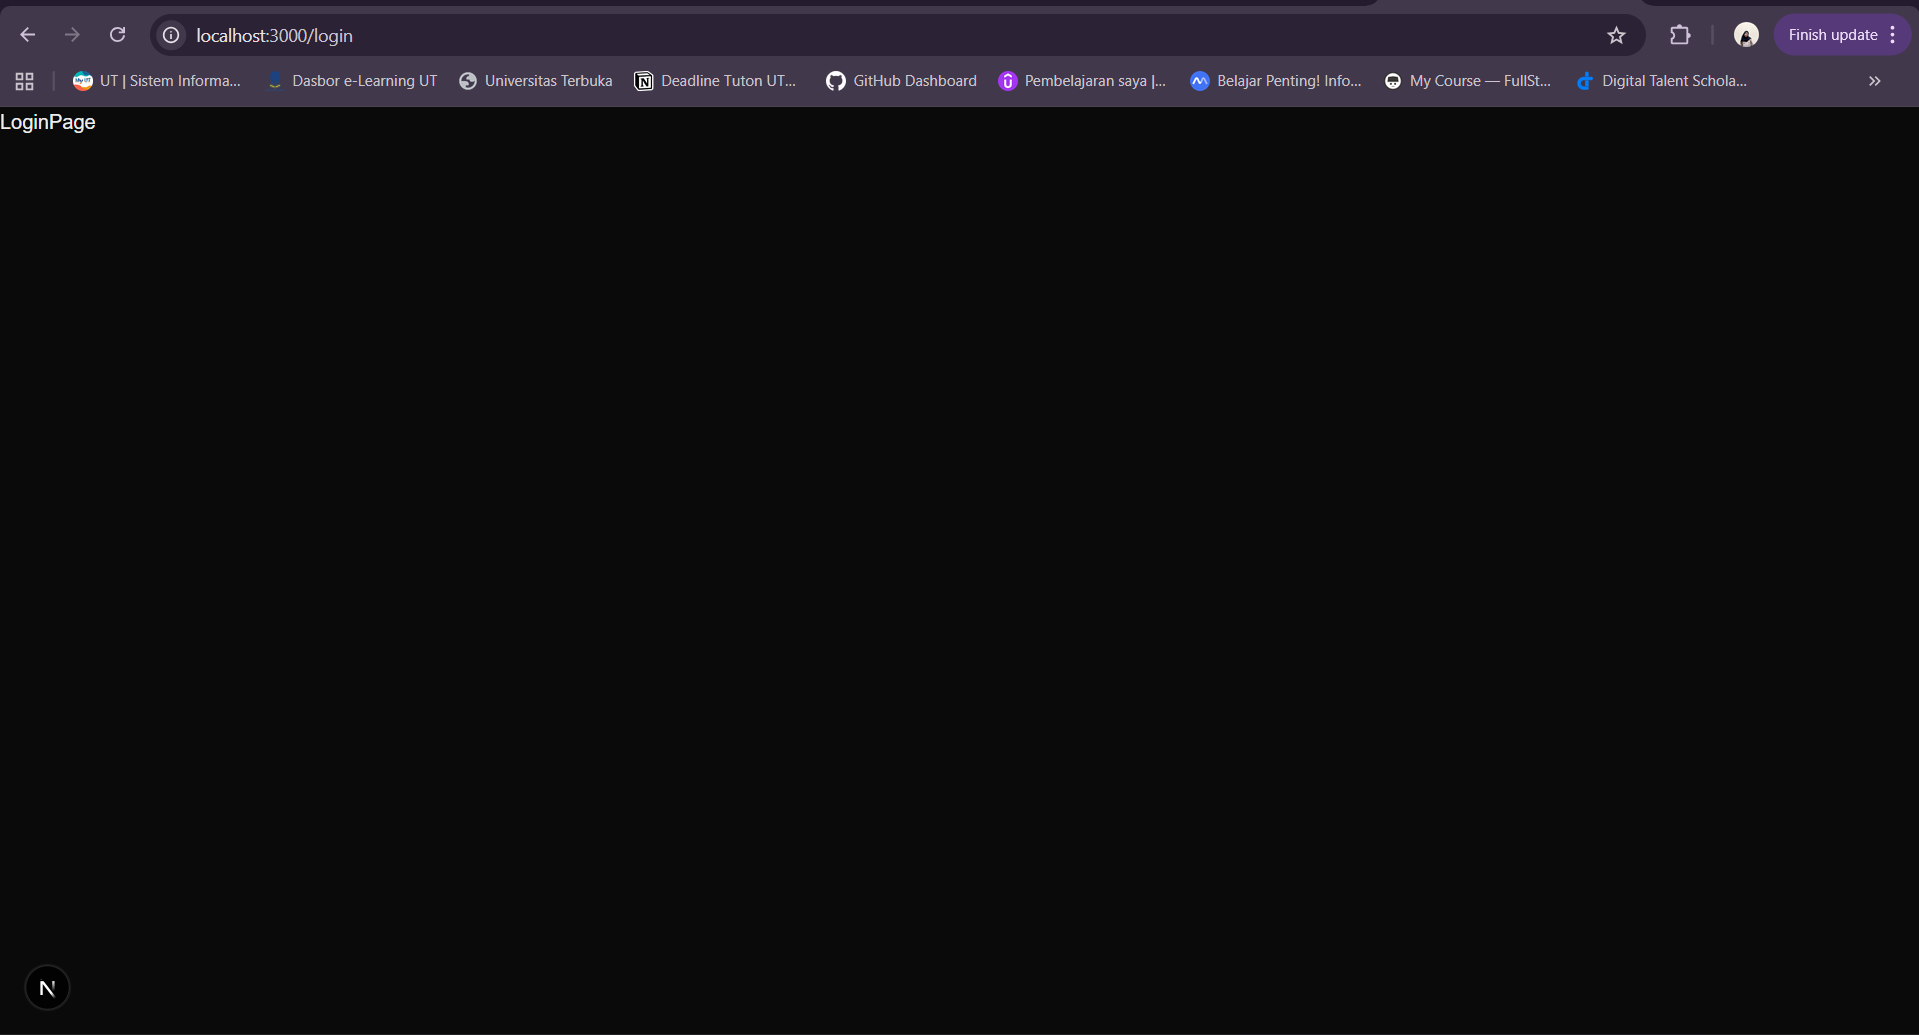
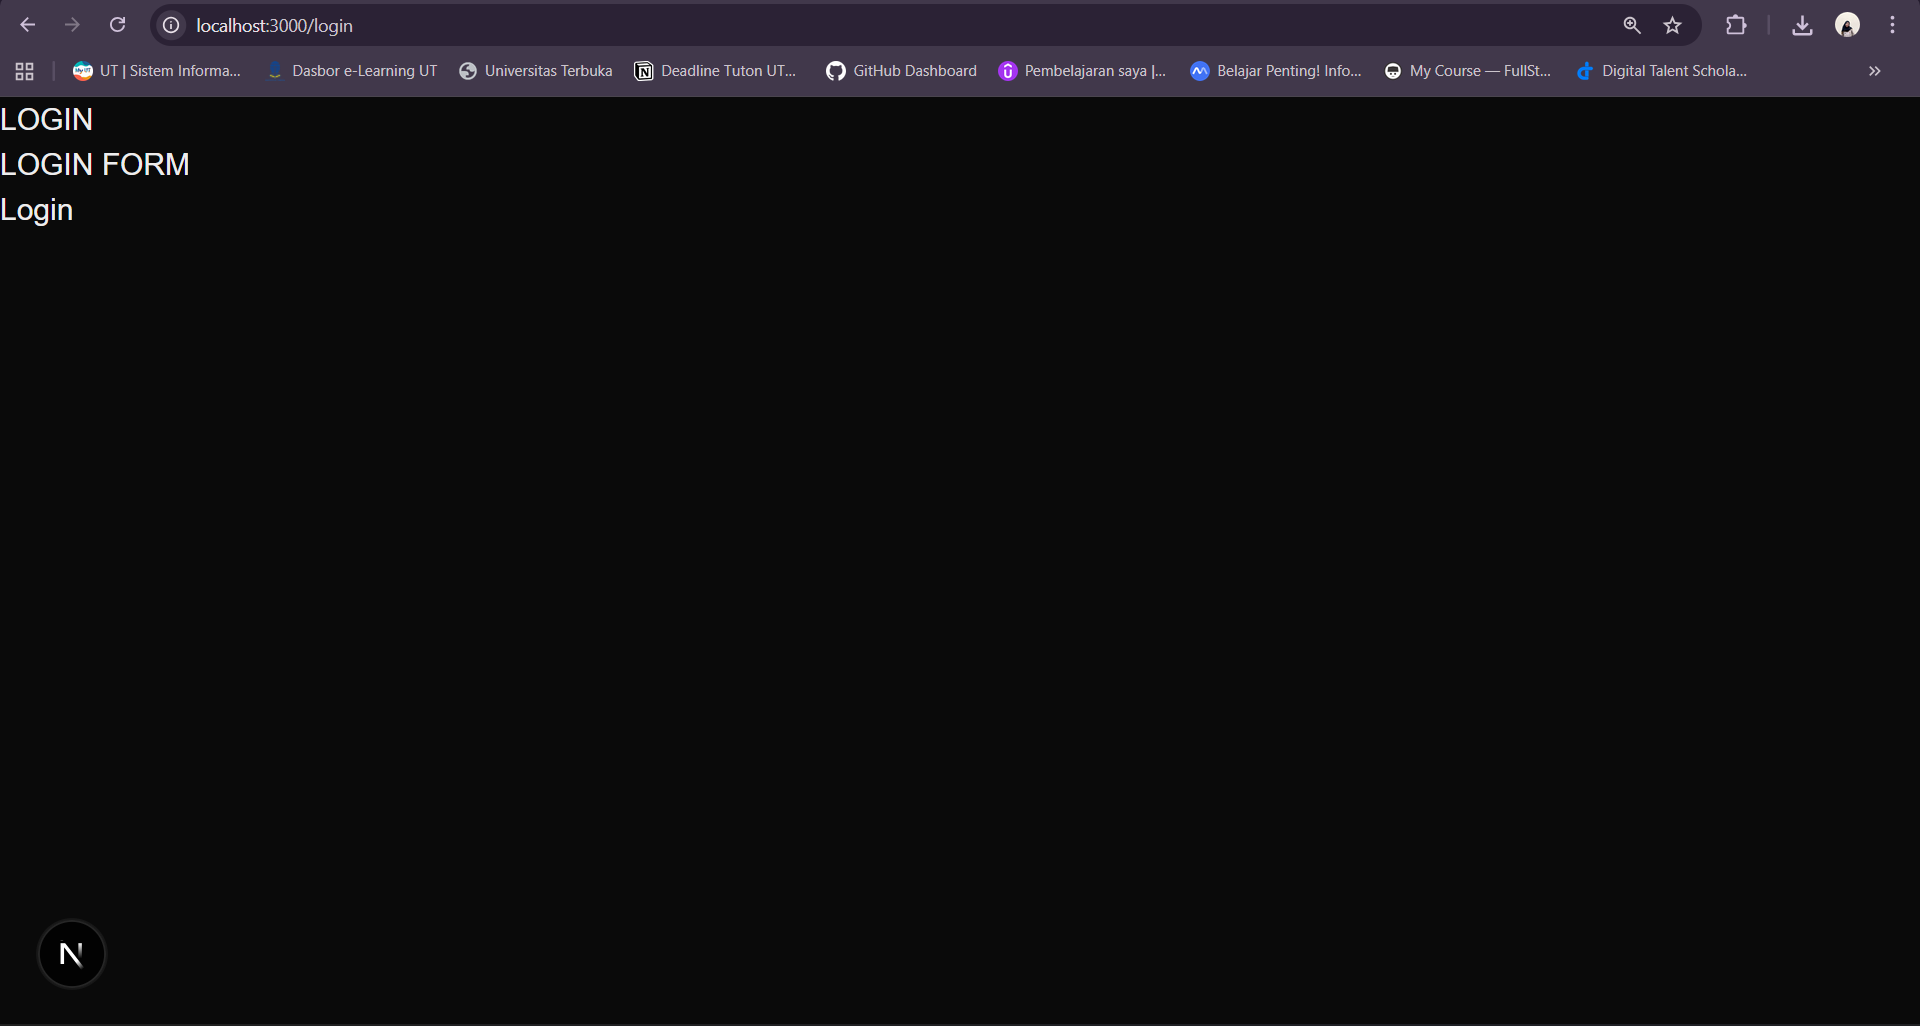
docs: update documentation with new images
- add home-page.png
- update login-page.png
- update README.md to include new screenshots

Changed region(s): [[0.0, 0.0, 1.0, 0.2183], [0.3689, 0.9981, 1.0, 1.0], [0.0307, 0.9045, 0.0615, 0.9357]]

diff --git a/README.md b/README.md
@@ -1,136 +1,132 @@
-## 🚀 Tugas Next JS 1 - Setup Next.js, Husky, dan Routing Dasar
+## 🚀 Tugas 2 - Next.js
 
 ### 🎯 Tujuan Tugas
-- Memahami Rendering pada Next.js  
-- Memahami perbedaan Next.js dengan React murni (SPA Only)  
-- Memahami Struktur Project Next.js  
-- Dapat melakukan Setup Dasar Next.js  
-- Dapat Membuat Routing Dasar pada Next.js  
+- Memahami **Routing** pada Next.js  
+- Memahami kegunaan **Metadata** dan implementasinya pada Next.js  
+- Memahami penggunaan **Navigation** pada Next.js  
+- Membuat **Middleware** sebagai proteksi route  
 
 ---
 
 ### 🧩 Langkah Pengerjaan
 
-#### A. Setup Next.js
-Project dibuat menggunakan perintah berikut:
-
-```bash
-bunx create-next-app@latest .
-```
-Pilihan yang digunakan:
-
-- TypeScript: Yes
-
-- Linter (ESLint): Yes
-
-- Tailwind CSS: Yes
-
-- src/ directory: Yes
-
-- App Router: Yes (recommended)
-
-- Turbopack: Yes (recommended)
-
-- Alias @/*: Default
-<br>
-
-#### B. Setup Husky (lint-staged & commitlint)
-
-- Tambahkan dependency berikut:
-
-```bash
-bun add -D husky lint-staged @commitlint/config-conventional @commitlint/cli
-bunx husky init
-```
-- Kemudian buat hook di dalam folder ``.husky``:
-
-```bash
-pre-commit
-
-pre-commit.ps1
-
-commit-msg
-
-commit-msg.ps1
-```
-
-- Isi file sesuai konfigurasi standar yang sudah diajarkan (lint-staged + commitlint).
-<br>
-
-#### C. Setup Shadcn/UI
-
-Mengikuti dokumentasi resmi Shadcn untuk Next.js:
-Shadcn UI Docs
-
-Langkah utama:
-
-```bash
-bunx shadcn-ui@latest init
-```
-<br>
-
-#### D. Membuat Routing Dasar
-
-Tambahkan halaman baru Dashboard:
-
-__📂 Struktur folder:__
-
+#### 1. Routing di Next.js
+- Membuat folder dan file di dalam `app/` untuk otomatis jadi route.  
 src/
- └── app/
-      ├── page.tsx         → Halaman utama (Home)
-      └── dashboard/
-           └── page.tsx    → Halaman Dashboard
-      └── login/
-           └── page.tsx    → Halaman Login
+└── app/
+    ├── (auth)/
+    │   ├── login/
+    │   │   ├── _component/
+    │   │   └── page.tsx
+    │   └── register/
+    │       └── page.tsx
+    │
+    ├── dashboard/
+    │   └── @main/
+    │       ├── layout.tsx
+    │       └── page.tsx
+    │
+    ├── feed/
+    │   └── (.)post/
+    │       └── page.tsx
+    │
+    ├── user/
+    │   └── [[...slug]]/
+    │       └── page.tsx
+    │
+    ├── page.tsx
+    └── middleware.ts
 
+Keterangan singkat:
 
-Isi contoh ``src/app/dashboard/page.tsx``:
+- (auth) → folder grouping route khusus (bisa login & register).
 
-```js
-const Dashboard = () => {
-  return <div>Dashboard</div>;
+- @main → folder parallel route buat dashboard.
+
+- (.)post → route intercepting di dalam feed.
+
+- [[...slug]] → catch-all optional route buat user.
+
+Akses via browser:  
+``"/" → Home``
+``"/login" → Login``
+``"/dashboard" → Dashboard``
+<br>
+
+#### 2. Metadata
+- Tambahkan metadata di tiap halaman menggunakan ``export const metadata``.  
+- Contoh:
+```tsx
+export const metadata = {
+  title: "Dashboard",
+  description: "Ini adalah halaman Dashboard",
 };
-export default Dashboard;
-```
-Isi contoh ``src/app/login/page.tsx``:
-
-```js
-const LoginPage = () => {
-  return <div>LoginPage</div>;
-};
-export default LoginPage;
 ```
 <br>
 
-### 📖 Dokumentasi
-🔹 Fitur yang Dibuat
+#### 3. Navigation
 
-- Setup Next.js dengan Bun
+- Gunakan komponen ``Link`` dari ``next/link`` untuk navigasi antar halaman.
 
-- Konfigurasi Husky + Commitlint untuk menjaga kualitas commit
+- Contoh:
 
-- Integrasi Shadcn/UI untuk styling komponen UI
+```tsx
+import Link from "next/link";
 
-- Routing Dasar dengan menambahkan halaman /dashboard
+export default function Navbar() {
+  return (
+    <nav>
+      <Link href="/">Home</Link>
+      <Link href="/about">Login</Link>
+      <Link href="/dashboard">Dashboard</Link>
+    </nav>
+  );
+};
+```
 <br>
 
-### ⚡ Cara Menjalankan Project
+#### 4. Middleware (Proteksi Route)
+
+- Buat file ``middleware.ts`` di root project.
+
+- Contoh: hanya user login yang bisa akses ``/dashboard``.
+
+```tsx
+import { NextResponse } from "next/server";
+import type { NextRequest } from "next/server";
+
+export function middleware(request: NextRequest) {
+  const isLoggedIn = false; // ganti sesuai logic auth
+
+  if (!isLoggedIn && request.nextUrl.pathname.startsWith("/dashboard")) {
+    return NextResponse.redirect(new URL("/", request.url));
+  }
+
+  return NextResponse.next();
+}
+
+export const config = {
+  matcher: ["/dashboard/:path*"],
+};
+```
+<br>
+
+#### 📌 Catatan
+
+Jalankan project dengan:
 ```bash
-bun install
 bun dev
 ```
-Buka di browser:
-👉 http://localhost:3000
 <br>
 
-### 📷 Screenshot
-- Tampilan halaman dashboard
-![Dashboard Page](./docs/images/dashboard.png)
+#### 📷 Screenshot
+- Halaman Home
+![Halaman Home](./docs/images/home-page.png)
 <br>
-- Tampilan halaman login
-![Login Page](./docs/images/login-page.png)
 
-### 📝 Catatan
-Next.js mendukung __Server-side Rendering (SSR)__ dan __Static Site Generation (SSG)__, sehingga berbeda dengan React murni yang hanya mendukung __Client-side Rendering (CSR)__.
+- Halaman Login
+![Halaman Login](./docs/images/login-page.png)
+<br>
 
-Struktur project menggunakan App Router sehingga lebih modern dan modular.
+- Halaman Dashboard
+![Halaman Dashboard](./docs/images/dashboard.png)